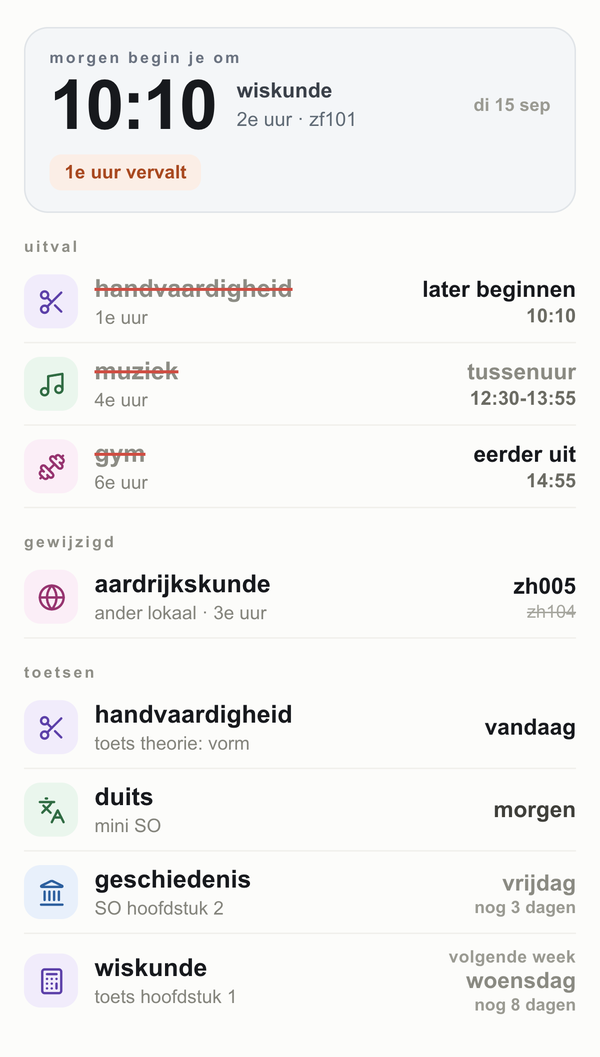
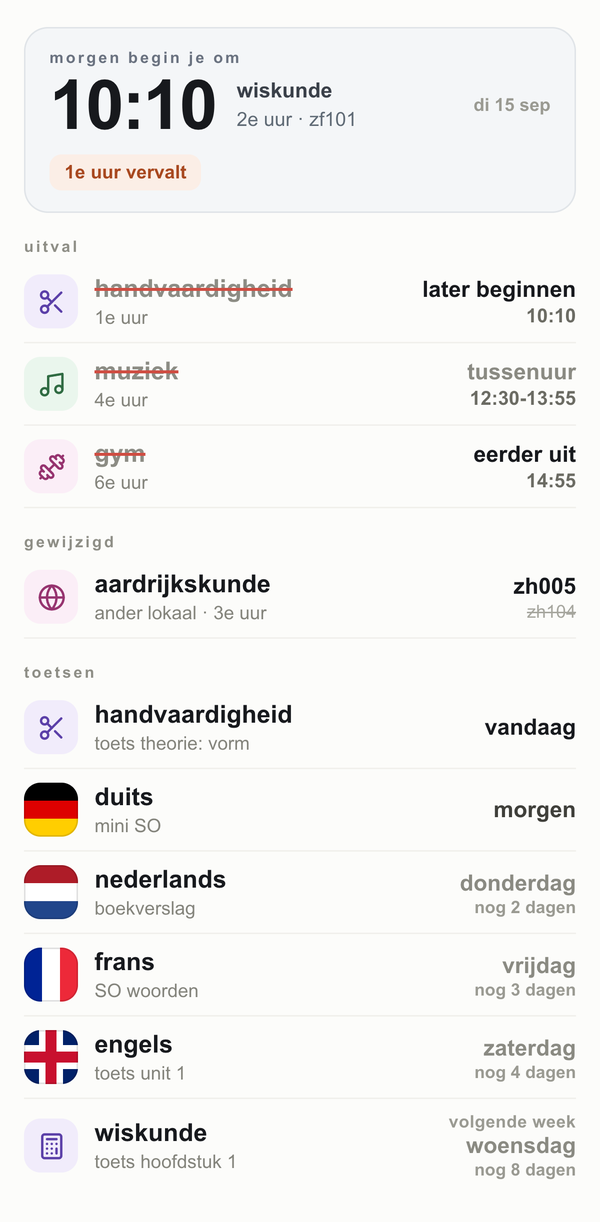
Vlaggen voor de talen in plaats van driemaal hetzelfde icoon
Engels, duits en frans kregen alledrie het vertaalicoon van Lucide en waren
alleen op kleur te onderscheiden; nederlands week af met een boek, wat het
nog inconsistenter maakte. Nu is de vlag de achtergrond van het blokje en
vervalt het icoon. CSS-gradients, dus nog steeds niets van buiten.

De Union Jack is vereenvoudigd: geen diagonalen, die zijn met gradients niet
netjes te maken en op dit formaat vallen ze weg.

diff --git a/rooster_kaart.py b/rooster_kaart.py
@@ -69,6 +69,7 @@ h2{font-size:10.5px;letter-spacing:.15em;font-weight:800;color:#8e8e86;margin:16
 .chip{width:36px;height:36px;border-radius:11px;flex:none;display:flex;
  align-items:center;justify-content:center}
 .chip svg{width:19px;height:19px}
+.chip.vlag{box-shadow:inset 0 0 0 1px rgba(0,0,0,.12)}
 .mid{flex:1;min-width:0}
 .vak{font-size:16.5px;font-weight:650;line-height:1.2;white-space:nowrap;
  overflow:hidden;text-overflow:ellipsis}
@@ -89,7 +90,25 @@ h2{font-size:10.5px;letter-spacing:.15em;font-weight:800;color:#8e8e86;margin:16
 """ % BREEDTE
 
 
+# Talen krijgen geen icoon maar een vlag: bij Lucide is er niets dat duits van
+# frans onderscheidt, en een vlag herken je zonder nadenken. Opgebouwd uit
+# gradients, dus geen plaatjes van buiten.
+VLAGGEN = {
+    "nederlands": "linear-gradient(#ae1c28 33.3%,#fff 33.3%,#fff 66.6%,#21468b 66.6%)",
+    "duits": "linear-gradient(#000 33.3%,#dd0000 33.3%,#dd0000 66.6%,#ffce00 66.6%)",
+    "frans": "linear-gradient(to right,#002395 33.3%,#fff 33.3%,#fff 66.6%,#ed2939 66.6%)",
+    "engels": ("linear-gradient(transparent 40%,#c8102e 40%,#c8102e 60%,transparent 60%),"
+               "linear-gradient(to right,transparent 40%,#c8102e 40%,#c8102e 60%,transparent 60%),"
+               "linear-gradient(transparent 28%,#fff 28%,#fff 72%,transparent 72%),"
+               "linear-gradient(to right,transparent 28%,#fff 28%,#fff 72%,transparent 72%),"
+               "#012169"),
+    "spaans": "linear-gradient(#aa151b 25%,#f1bf00 25%,#f1bf00 75%,#aa151b 75%)",
+}
+
+
 def _chip(vak: str) -> str:
+    if vlag := VLAGGEN.get(roepnaam(vak)):
+        return f'<div class="chip vlag" style="background:{vlag}"></div>'
     bg, fg = kleur(vak)
     svg = (f'<svg viewBox="0 0 24 24" fill="none" stroke="{fg}" stroke-width="2" '
            f'stroke-linecap="round" stroke-linejoin="round">{icoon_voor(vak)}</svg>')
@@ -209,8 +228,12 @@ DEMO = dict(
               "voor": None, "dag": "vandaag"},
              {"vak": "Duitse taal", "wat": "Mini SO", "dagen": 1,
               "voor": None, "dag": "morgen"},
-             {"vak": "geschiedenis", "wat": "SO hoofdstuk 2", "dagen": 3,
+             {"vak": "Nederlandse taal", "wat": "boekverslag", "dagen": 2,
+              "voor": None, "dag": "donderdag"},
+             {"vak": "Franse taal", "wat": "SO woorden", "dagen": 3,
               "voor": None, "dag": "vrijdag"},
+             {"vak": "Engelse taal", "wat": "toets unit 1", "dagen": 4,
+              "voor": None, "dag": "zaterdag"},
              {"vak": "wiskunde", "wat": "Toets hoofdstuk 1", "dagen": 8,
               "voor": "volgende week", "dag": "woensdag"}],
     vandaag="di 15 sep")

diff --git a/README.md b/README.md
@@ -43,7 +43,10 @@ De kaart wordt opgebouwd als HTML en met headless Chrome naar PNG geschreven
 (`rooster_kaart.py`). Chrome staat op een GitHub-runner al klaar, dus Playwright
 gebruikt die via `channel="chrome"` en hoeft er geen te downloaden. Kleuren-emoji
 waren er niet nodig: de vakiconen zijn Lucide-SVG's die in `vakiconen.py` staan
-ingebakken.
+ingebakken. Talen krijgen geen icoon maar een vlag als achtergrond - Lucide
+heeft niets dat duits van frans onderscheidt. De vlaggen zijn CSS-gradients;
+de Union Jack is vereenvoudigd (geen diagonalen), want die zijn zo niet netjes
+te maken en op 36 pixels zie je het verschil niet.
 
 Twee dingen waar de data tegenwerkt. Uitgevallen lessen komen met een afkorting
 als vaknaam ("mu" in plaats van "muziek"); die zoeken we op via docent+lokaal en
